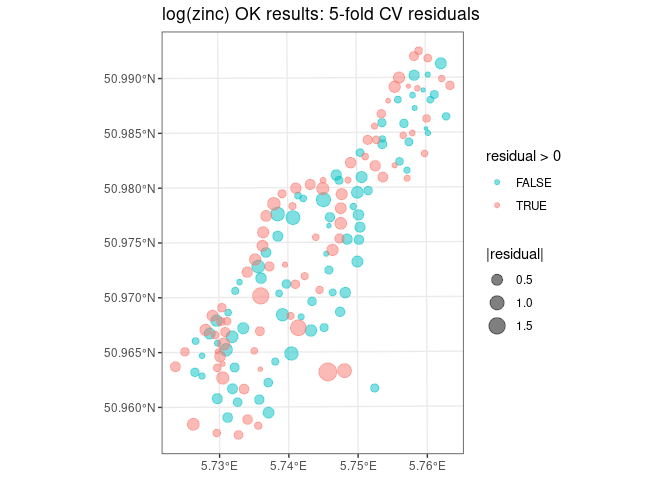
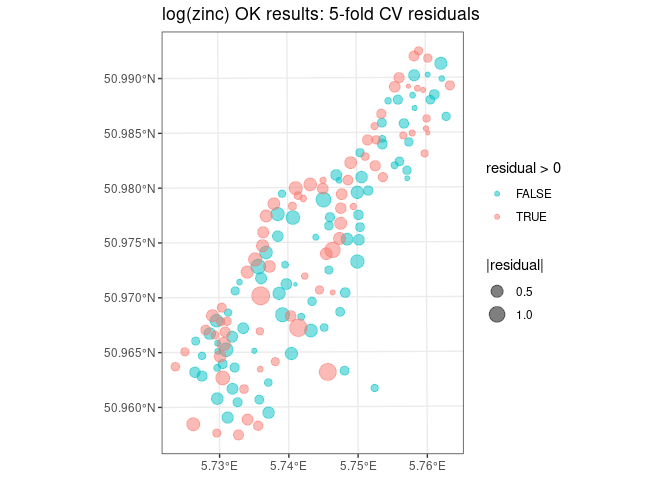
Added note about RCurl alternative.

diff --git a/demos/geo/Week8LabGeostatistics.md b/demos/geo/Week8LabGeostatistics.md
@@ -1,7 +1,7 @@
 ---
 title: "Week 8 Lab:  Geostatistics"
 author: "Lianne Sheppard for ENVH 556"
-date: "Winter 2021; Updated 03 May, 2021"
+date: "Winter 2021; Updated 04 May, 2021"
 output: 
     html_document:
         fig_caption: yes
@@ -1059,9 +1059,9 @@ Table: Summary of kriging cross-validation results for log(zinc).
 
 |Description                 |   RMSE| MSE_based_R2|
 |:---------------------------|------:|------------:|
-|OK: 5-fold CV               | 0.4292|       0.6443|
+|OK: 5-fold CV               | 0.3899|       0.7064|
 |OK: LOO CV                  | 0.3869|       0.7109|
-|UK on sqrt(dist): 5-fold CV | 0.3937|       0.7006|
+|UK on sqrt(dist): 5-fold CV | 0.3938|       0.7004|
 |UK on sqrt(dist): LOO CV    | 0.3829|       0.7169|
 
 
@@ -1254,7 +1254,7 @@ la_grid
 # Remove the water points from la_grid:  We don't have data from the water, so
 # we do not want to predict there.
 
-# download zip file
+# download zip file ... requires specifying a referer and following a redirect
 zip_file_path <- file.path('Datasets','ne_10m_land.zip')
 if (!file.exists(zip_file_path)){
   # get url for a zip file for access to a shapefile
@@ -1263,6 +1263,14 @@ if (!file.exists(zip_file_path)){
   url <- GET(download_page) %>% read_html() %>% 
     html_node("a.download-link") %>% html_attr("href")
   GET(url, add_headers(referer = download_page), write_disk(zip_file_path))
+  
+  # Similarly, RCurl could be used for this download...
+  #RCurl::getBinaryURL(
+  #  paste0("https://www.naturalearthdata.com/http//www.naturalearthdata.com/",
+  #         "download/10m/physical/ne_10m_land.zip"), 
+  #  .opts = list(followlocation = TRUE, 
+  #               referer = "https://www.naturalearthdata.com")) %>%
+  #  writeBin(file.path('Datasets','ne_10m_land.zip'))
 }
 
 # unzip file
@@ -2397,7 +2405,7 @@ la_grid
 # Remove the water points from la_grid:  We don't have data from the water, so
 # we do not want to predict there.
 
-# download zip file
+# download zip file ... requires specifying a referer and following a redirect
 zip_file_path <- file.path('Datasets','ne_10m_land.zip')
 if (!file.exists(zip_file_path)){
   # get url for a zip file for access to a shapefile
@@ -2406,6 +2414,14 @@ if (!file.exists(zip_file_path)){
   url <- GET(download_page) %>% read_html() %>% 
     html_node("a.download-link") %>% html_attr("href")
   GET(url, add_headers(referer = download_page), write_disk(zip_file_path))
+  
+  # Similarly, RCurl could be used for this download...
+  #RCurl::getBinaryURL(
+  #  paste0("https://www.naturalearthdata.com/http//www.naturalearthdata.com/",
+  #         "download/10m/physical/ne_10m_land.zip"), 
+  #  .opts = list(followlocation = TRUE, 
+  #               referer = "https://www.naturalearthdata.com")) %>%
+  #  writeBin(file.path('Datasets','ne_10m_land.zip'))
 }
 
 # unzip file
@@ -2731,7 +2747,7 @@ lapply(c(lsf.str()), getAnywhere)
 ##   ggtitle(plot_title) +
 ##   theme_bw()
 ## }
-## <bytecode: 0x556e398628e0>
+## <bytecode: 0x55f5c9010410>
 ## 
 ## [[2]]
 ## A single object matching 'krige.cv.stats' was found
@@ -2756,7 +2772,7 @@ lapply(c(lsf.str()), getAnywhere)
 ##          RMSE = round(sqrt(MSE_pred), 4), 
 ##          MSE_based_R2 = round(max(1 - MSE_pred/MSE_obs, 0), 4) )
 ## }
-## <bytecode: 0x556e2f57cf90>
+## <bytecode: 0x55f5cc4a24c8>
 ## 
 ## [[3]]
 ## A single object matching 'krige.cv2' was found
@@ -2775,7 +2791,7 @@ lapply(c(lsf.str()), getAnywhere)
 ##   if (is.na(st_crs(krige.cv1))) {st_crs(krige.cv1) <- st_crs(locations)}
 ##   return(krige.cv1)
 ## }
-## <bytecode: 0x556e3481f538>
+## <bytecode: 0x55f5cfd8d6f8>
 ```
 
 
